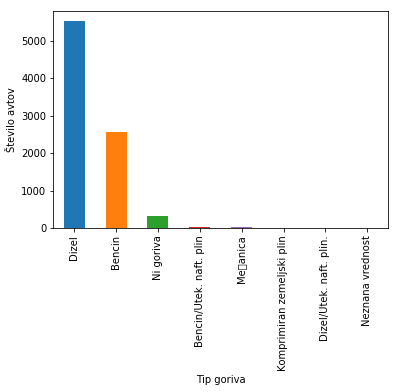
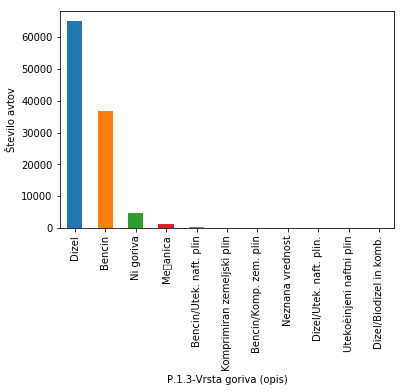
dodana koda grafov in opisi slik

diff --git a/README.md b/README.md
@@ -46,6 +46,22 @@ Stoplce "barva vozila" vsebuje vrednost Črna, katera se v našem primeru izpiš
 
 Množica podatkov, katero smo prenesli iz spletne strani je bila v obliki csv datotek, kar nam je mogočalo branje le teh z uporabo csv readerja v napih jupyter notebookih. Iz vseh stolpcev smo izbrali samo določene stoplce saj, nas drugi preprosto niso zanimali pri naših raziskavah.
 
+Opis izbranih atributov se nahaja malo nižje, pod naslovom, Opis atributov in vrednosti.
+
+Primer branje datoteke.
+```python
+df1501 = pd.read_csv("../data/2015/Podatki_012015.csv", encoding='latin1', sep=';', decimal=',', usecols=stolpci, dtype=tipi)
+#                    1.                                 2.                 3.       4.           5.               6.
+```
+1. pot do datoteke
+2. encoding ki delno "razume" šumnike
+3. nastavitev razdelilnika na ';'
+4. decimalna števila se preberejo z ',' ne z '.'
+5. izbira samo določenih stolpcev
+6. določanje podatkovnega tipa stolpcev
+
+## Opis atrbutov in vrednosti ##
+
 * Datum prve registracije, kjerkoli in nato še samo v SLO
 * Status vozila
 * Izvajalna enota prve registracije
@@ -61,19 +77,6 @@ Množica podatkov, katero smo prenesli iz spletne strani je bila v obliki csv da
 * Dolžina, širina in višina
 * Leto izdelave
 
-Primer branje datoteke.
-```python
-df1501 = pd.read_csv("../data/2015/Podatki_012015.csv", encoding='latin1', sep=';', usecols=stolpci, dtype=tipi)
-#                    1.                                 2.                 3.       4.               5.
-```
-1. pot do datoteke
-2. encoding ki delno "razume" šumnike
-3. nastavitev razdelilnika na ';'
-4. izbira samo določenih stoplev
-5. določanje podatkovnega tipa stolpcev
-
-## Opis atrbutov in vrednosti ##
-
 ## Grafi ##
 
 Prikaz štavila registriranih vozil v letu 2015 mesca januarja, urejenih po tipu goriva.
@@ -81,6 +84,7 @@ Prikaz štavila registriranih vozil v letu 2015 mesca januarja, urejenih po tipu
 
 Prikaz števila registiranih motornih vozil ki za svoje delovanje uporabljajo gorivo tipa mešanica.
 ![Mesanica](images/mesanica.png)
+
 Kot vidimo je največ takih vozil registriranih v mesecu Juniju in Juliju, oziroma poleti. 
 Iz tega lahko razberemo da se je takrat registriralo največ motorjev, skuterjev ter podobnih prevoznih stredstev na dveh kolesih.
 Kar je tudi logično saj se pozimi ni mogoče vozit s takimi prevoznimi sredstvi. Poleti pa je to velik trend.
